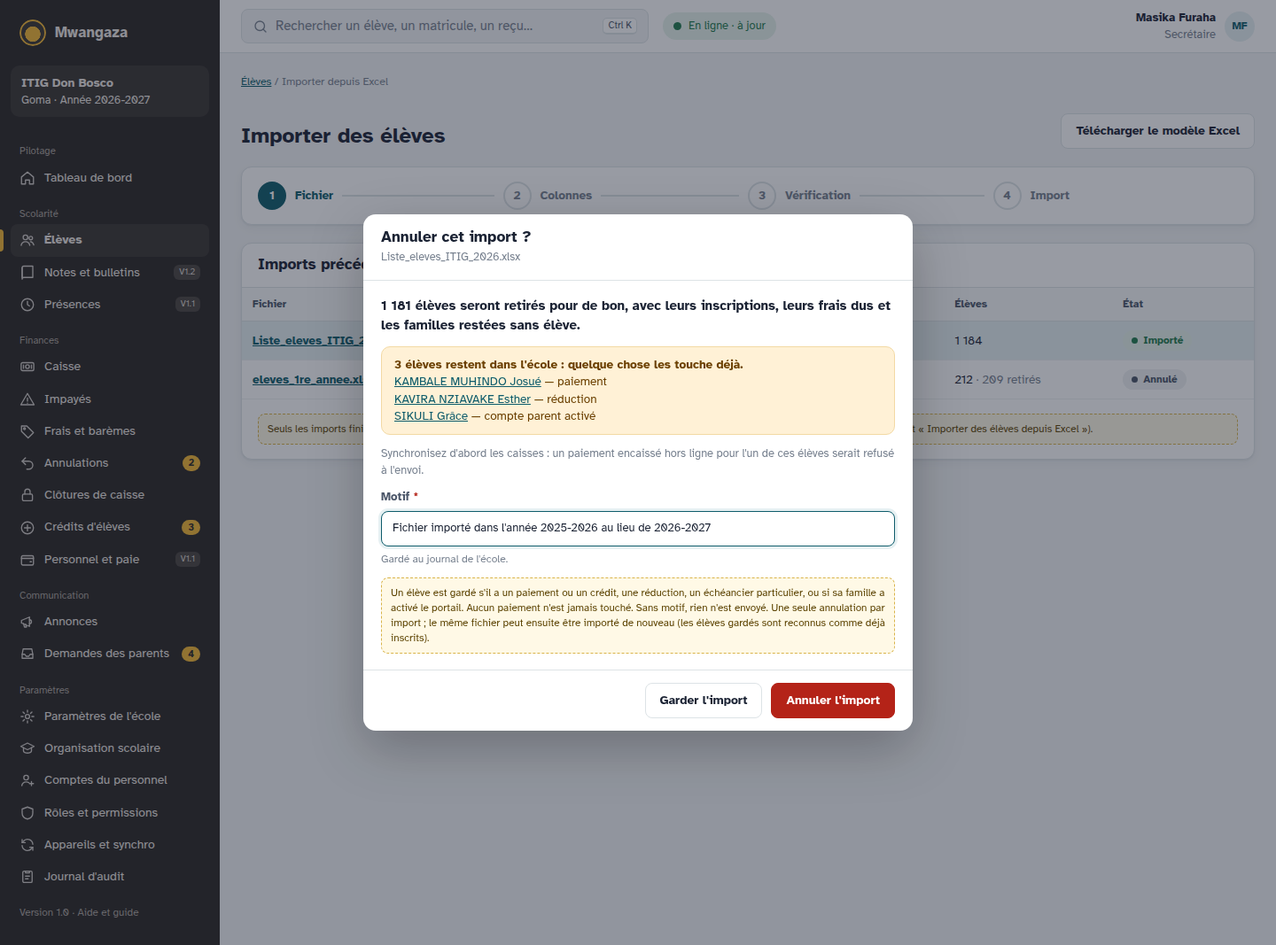
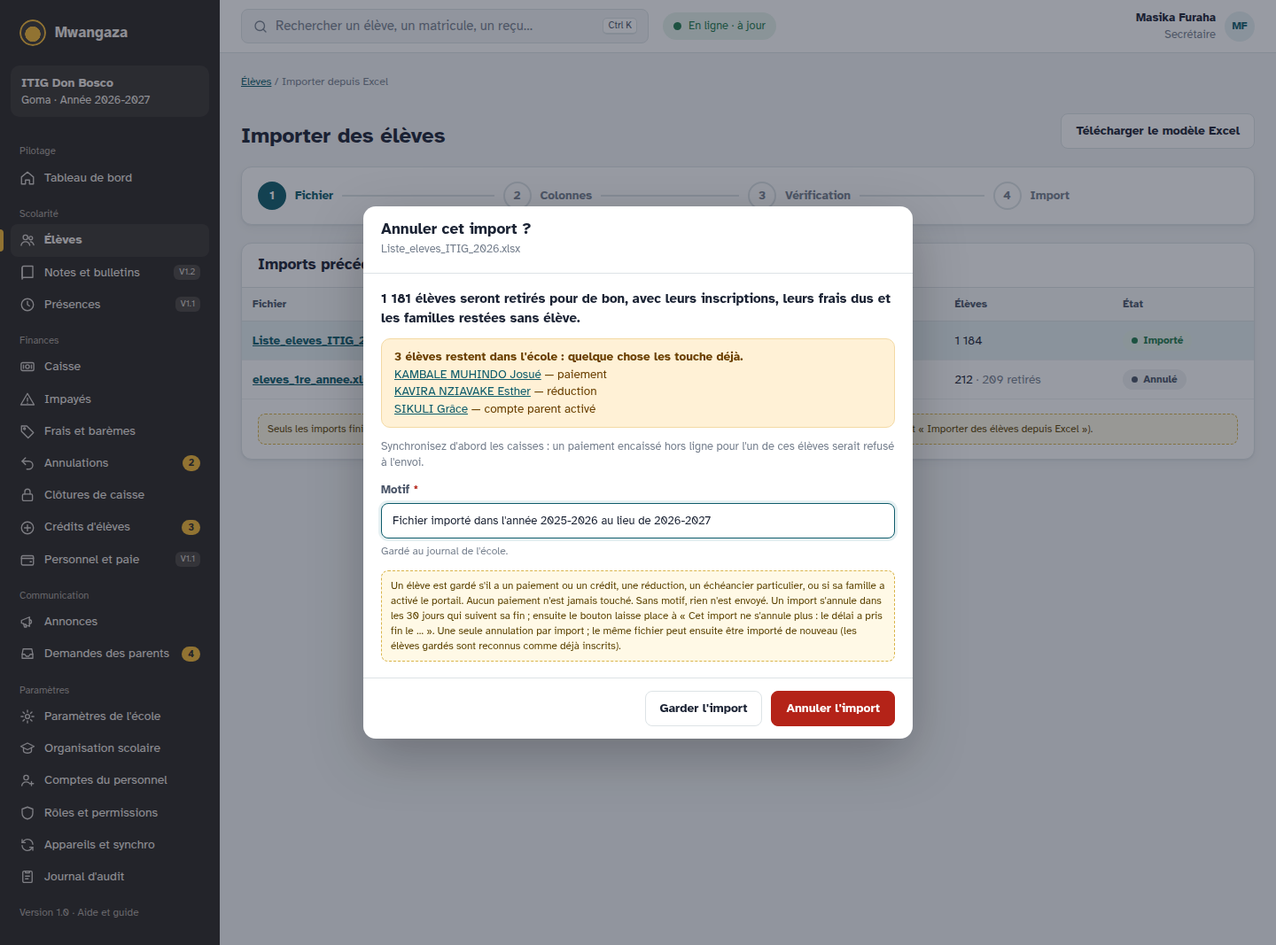
feat(eleves): un import s'annule dans les 30 jours
Passé ce délai, le serveur refuse (409 import_too_old) et l'écran donne
la date de fin du délai à la place du bouton : un import de septembre
annulé par erreur en mars effacerait tous les élèves sans paiement.

Changed region(s): [[0.2812, 0.3093, 0.7188, 0.8041], [0.2812, 0.2165, 0.7188, 0.2784]]

diff --git a/frontend/apps/gestion/src/features/students/ImportStudentsPage.tsx b/frontend/apps/gestion/src/features/students/ImportStudentsPage.tsx
@@ -3,7 +3,7 @@
 // un rechargement retrouve l'étape. Le serveur vérifie chaque ligne ; les lignes en erreur ne sont
 // pas importées, celles en avertissement le sont (à vérifier ensuite). Un import fini se retrouve
 // sous l'étape « Fichier » et s'annule (`ImportCancellation`).
-import { useTranslation } from "@mwangaza/i18n";
+import { formatDate, useTranslation } from "@mwangaza/i18n";
 import {
   Banner,
   Button,
@@ -30,6 +30,7 @@ import { Link, useNavigate, useParams } from "react-router";
 
 import { errorMessage } from "../../lib/errors";
 import { keys } from "../../lib/queries";
+import { useCurrentSchool } from "../../lib/school";
 import { useClasses, useYears } from "../organisation/data";
 import { Pagination } from "../shell/Pagination";
 import { LoadError } from "../status/StatusPages";
@@ -505,7 +506,8 @@ type IssueCode =
 
 /** Étape 4 : import en tâche de fond, suivi jusqu'au bout. */
 function ImportStep({ imp }: { imp: StudentImport }) {
-  const { t } = useTranslation();
+  const { t, i18n } = useTranslation();
+  const school = useCurrentSchool();
   const number = useNumber();
   const queryClient = useQueryClient();
   const [cancelling, setCancelling] = useState(false);
@@ -545,11 +547,20 @@ function ImportStep({ imp }: { imp: StudentImport }) {
       </CardContent>
       {imp.status !== "importing" && (
         <CardFooter className="flex-wrap justify-end gap-2.5">
-          {imp.status === "done" && imp.created_count > 0 && (
-            <Button variant="outline" className="mr-auto" onClick={() => setCancelling(true)}>
-              {t("students.import.cancel.action")}
-            </Button>
-          )}
+          {imp.status === "done" &&
+            imp.created_count > 0 &&
+            imp.cancellable_until &&
+            (new Date(imp.cancellable_until) > new Date() ? (
+              <Button variant="outline" className="mr-auto" onClick={() => setCancelling(true)}>
+                {t("students.import.cancel.action")}
+              </Button>
+            ) : (
+              <span className="mr-auto text-sm text-ink-3">
+                {t("students.import.cancel.tooLate", {
+                  date: formatDate(imp.cancellable_until, i18n.language, school.timezone),
+                })}
+              </span>
+            ))}
           {imp.status === "done" && imp.counts.error > 0 && (
             <Button asChild variant="outline">
               <a href={importReportUrl(imp.id)} download>

diff --git a/maquettes/gestion/eleves-import-annulation.html b/maquettes/gestion/eleves-import-annulation.html
@@ -31,7 +31,7 @@
    <div><a href="#">SIKULI Grâce</a> — compte parent activé</div></div></div>
   <p class="small muted">Synchronisez d'abord les caisses : un paiement encaissé hors ligne pour l'un de ces élèves serait refusé à l'envoi.</p>
   <label class="f"><span>Motif <span class="req">*</span></span><span class="inp focus">Fichier importé dans l'année 2025-2026 au lieu de 2026-2027</span><span class="help">Gardé au journal de l'école.</span></label>
-  <div class="note">Un élève est gardé s'il a un paiement ou un crédit, une réduction, un échéancier particulier, ou si sa famille a activé le portail. Aucun paiement n'est jamais touché. Sans motif, rien n'est envoyé. Une seule annulation par import ; le même fichier peut ensuite être importé de nouveau (les élèves gardés sont reconnus comme déjà inscrits).</div>
+  <div class="note">Un élève est gardé s'il a un paiement ou un crédit, une réduction, un échéancier particulier, ou si sa famille a activé le portail. Aucun paiement n'est jamais touché. Sans motif, rien n'est envoyé. Un import s'annule dans les 30 jours qui suivent sa fin ; ensuite le bouton laisse place à « Cet import ne s'annule plus : le délai a pris fin le … ». Une seule annulation par import ; le même fichier peut ensuite être importé de nouveau (les élèves gardés sont reconnus comme déjà inscrits).</div>
  </div>
  <div class="ft"><a class="btn" href="#">Garder l'import</a><a class="btn dangerf" href="#">Annuler l'import</a></div>
 </div></div>

diff --git a/frontend/apps/gestion/src/features/students/import.test.tsx b/frontend/apps/gestion/src/features/students/import.test.tsx
@@ -53,6 +53,7 @@ const analysed = {
   cancelled_at: null,
   cancelled_by_name: null,
   cancel_reason: "",
+  cancellable_until: null,
 };
 const done = {
   ...analysed,
@@ -60,6 +61,7 @@ const done = {
   counts: { rows: 4, ready: 4, warning: 0, error: 0 },
   created_count: 4,
   finished_at: "2026-09-27T08:05:00Z",
+  cancellable_until: "2099-01-01T00:00:00Z",
 };
 const values = (last: string, date: string, klass: string) => ({
   last_name: last,
@@ -166,6 +168,7 @@ describe("importer des élèves (D1)", () => {
     const cancelled = {
       ...done,
       status: "cancelled",
+      cancellable_until: null,
       cancelled_count: 3,
       cancelled_at: "2026-09-28T09:00:00Z",
       cancelled_by_name: "Masika Furaha",

diff --git a/frontend/packages/api/src/schema.d.ts b/frontend/packages/api/src/schema.d.ts
@@ -7038,6 +7038,11 @@ export interface components {
             cancelled_by_name: string | null;
             /** Cancellation reason */
             readonly cancel_reason: string;
+            /**
+             * Format: date-time
+             * @description Fin du délai d'annulation (30 jours) ; vide si l'import n'est pas fini.
+             */
+            readonly cancellable_until: string | null;
         };
         StudentImportCreateRequest: {
             /**

diff --git a/frontend/packages/i18n/src/locales/en.ts b/frontend/packages/i18n/src/locales/en.ts
@@ -1787,6 +1787,7 @@ export const en: Messages<typeof fr> = {
         done_one: "Import cancelled on {{date}} by {{name}}: 1 student removed.",
         done_other: "Import cancelled on {{date}} by {{name}}: {{number}} students removed.",
         doneReason: "Reason: {{reason}}",
+        tooLate: "This import can no longer be cancelled: the time limit ended on {{date}}.",
       },
     },
     validation: {

diff --git a/frontend/packages/i18n/src/locales/fr.ts b/frontend/packages/i18n/src/locales/fr.ts
@@ -1796,6 +1796,7 @@ export const fr = {
         done_one: "Import annulé le {{date}} par {{name}} : 1 élève retiré.",
         done_other: "Import annulé le {{date}} par {{name}} : {{number}} élèves retirés.",
         doneReason: "Motif : {{reason}}",
+        tooLate: "Cet import ne s'annule plus : le délai a pris fin le {{date}}.",
       },
     },
     validation: {

diff --git a/backend/apps/students/import_cancellation.py b/backend/apps/students/import_cancellation.py
@@ -6,6 +6,8 @@ leurs frais dus et les familles restées sans élève. Un élève que quelque ch
 reste, avec sa famille et son lien : paiement ou crédit, réduction, échéancier particulier,
 compte parent activé. Aucun paiement n'est touché ; les frais dus effacés ici n'ont jamais rien
 reçu (seule exception à « rien n'est effacé dans les finances », décision du 2026-10-11).
+Un import ne s'annule que dans les 30 jours qui suivent sa fin : passé ce délai, un geste de trop
+effacerait une année d'élèves qui n'ont pas encore payé.
 
 Tout nouveau modèle lié à un élève ou à une inscription s'ajoute ici : aux raisons de garder
 l'élève (`_touches`) ou à ce qui part avec lui (`cancel`). Sinon la base refuse l'annulation.
@@ -13,6 +15,7 @@ l'élève (`_touches`) ou à ce qui part avec lui (`cancel`). Sinon la base refu
 
 import logging
 from dataclasses import dataclass
+from datetime import datetime, timedelta
 from functools import partial, reduce
 from operator import or_
 
@@ -37,9 +40,15 @@ PAYMENT, DISCOUNT, SCHEDULE, PORTAL = "payment", "discount", "schedule", "portal
 REASONS = (PAYMENT, DISCOUNT, SCHEDULE, PORTAL)
 # Élèves gardés nommés à l'écran ; au-delà, leur nombre seulement.
 KEPT_SHOWN = 50
+CANCEL_WITHIN = timedelta(days=30)
 
 NOT_CANCELLABLE = ApiError(
     "import_not_cancellable", _("Only a finished import can be cancelled."), 409
+)
+TOO_OLD = ApiError(
+    "import_too_old",
+    _("This import can no longer be cancelled: the time limit has passed."),
+    409,
 )
 NOTHING_TO_CANCEL = ApiError(
     "nothing_to_cancel", _("No student of this import can be removed."), 409
@@ -55,6 +64,13 @@ class Cancellation:
     kept_count: int
     # Les premiers élèves gardés, chacun avec ses `reasons`.
     kept: list[Student]
+
+
+def cancellable_until(imp: StudentImport) -> datetime | None:
+    """Fin du délai d'annulation d'un import fini ; rien pour un autre état."""
+    if imp.status != StudentImport.Status.DONE or imp.finished_at is None:
+        return None
+    return imp.finished_at + CANCEL_WITHIN
 
 
 def _touches() -> dict[str, tuple[str, Exists]]:
@@ -125,6 +141,8 @@ def _cancel(imp: StudentImport, *, actor: User, reason: str) -> StudentImport:
     imp = StudentImport.objects.select_for_update().defer("rows").get(pk=imp.pk)
     if imp.status != StudentImport.Status.DONE:
         raise BusinessError(NOT_CANCELLABLE)
+    if timezone.now() > cancellable_until(imp):
+        raise BusinessError(TOO_OLD)
     # Année verrouillée, comme à l'import et à l'inscription : le numéro de matricule ne
     # bouge pas pendant qu'il est repris.
     year = AcademicYear.objects.select_for_update().get(pk=imp.academic_year_id)

diff --git a/backend/apps/students/tests/test_imports.py b/backend/apps/students/tests/test_imports.py
@@ -5,7 +5,7 @@ compte parent), paiements intacts, journal, appareils prévenus."""
 
 import io
 import uuid
-from datetime import date, datetime
+from datetime import date, datetime, timedelta
 from decimal import Decimal
 
 import openpyxl
@@ -361,6 +361,17 @@ def test_cancelling_an_import_removes_untouched_students_and_never_touches_money
     assert response.status_code == 400 and "reason" in response.json()["fields"]
     with use_school(school):
         assert Student.objects.count() == 7
+
+    # Passé 30 jours, plus d'annulation.
+    with use_school(school):
+        late = timezone.now() - timedelta(days=31)
+        StudentImport.objects.filter(pk=imp.pk).update(finished_at=late)
+    assert client.get(path).json()["cancellable_until"] < timezone.now().isoformat()
+    response = client.post(f"{path}cancel/", {"reason": "Trop tard"})
+    assert response.status_code == 409 and response.json()["code"] == "import_too_old"
+    with use_school(school):
+        assert Student.objects.count() == 7
+        StudentImport.objects.filter(pk=imp.pk).update(finished_at=timezone.now())
 
     response = client.post(f"{path}cancel/", {"reason": "Fichier importé dans la mauvaise classe"})
     assert response.status_code == 200, response.json()

diff --git a/backend/apps/students/serializers.py b/backend/apps/students/serializers.py
@@ -407,6 +407,9 @@ class StudentImportSerializer(serializers.ModelSerializer):
     cancelled_by_name = serializers.CharField(
         source="cancelled_by.__str__", default=None, allow_null=True
     )
+    cancellable_until = serializers.SerializerMethodField(
+        help_text="Fin du délai d'annulation (30 jours) ; vide si l'import n'est pas fini."
+    )
 
     class Meta:
         model = StudentImport
@@ -430,12 +433,17 @@ class StudentImportSerializer(serializers.ModelSerializer):
             "cancelled_at",
             "cancelled_by_name",
             "cancel_reason",
+            "cancellable_until",
         ]
         read_only_fields = fields
 
     @extend_schema_field(serializers.IntegerField())
     def get_importable_count(self, imp: StudentImport) -> int:
         return imports.importable_count(imp)
+
+    @extend_schema_field(serializers.DateTimeField(allow_null=True))
+    def get_cancellable_until(self, imp: StudentImport):
+        return import_cancellation.cancellable_until(imp)
 
 
 class StudentImportListSerializer(serializers.ModelSerializer):

diff --git a/docs/claude/reference.md b/docs/claude/reference.md
@@ -24,7 +24,7 @@ Sorti de `CLAUDE.md` le 2026-10-04 : `CLAUDE.md` est lu à chaque conversation, 
 - **Gestion** `http://itig.localhost:5173/app/` (le sous-domaine = code de l'école ; `…/api/school/` renvoie l'école ; écrans : `/app/login` et ses étapes `…/code`, `…/new-password`, `…/two-factor`, `/app/account`, `/app/schools`, `/app/support`, `/app/students/invitations` (invitations au portail), `/app/platform-news` (annonces de la plateforme ; bandeau de la dernière non lue en haut de chaque écran, lien en bas du menu), `/app/notifications` (centre de notifications, ouvert par la cloche de la barre du haut ; activer les notifications sur l'écran de cet appareil, essai, sortes à recevoir ; réception seulement avec le service worker, donc après `make build` et `pnpm preview`), une adresse par entrée du menu, guide du caissier et du comptable par-dessus les écrans (« Aide et guide » en bas du menu) ; service worker seulement après `make build`, essai avec `cd frontend/apps/gestion && pnpm preview` sur le port 4173)
 - **Portail** `http://localhost:5174/` (écrans `/login`, `/activate` (code famille prérempli depuis `#<code>`, QR de la lettre d'invitation), `/forgot-password`, `/` (mes enfants), `/children/<id>` (paiements), `/announcements`, `/profile`, `/add-school`, `/install`, `/guide` (guide du parent, après l'activation) ; service worker seulement après `make build` ; API sans école `/api/portal/auth/login/` · `activate/` · `reset/`, `/api/portal/me/`, `/api/portal/profile/`, `/api/portal/families/` · `families/link/`, `/api/portal/children/<id>/` · `…/photo/`, `/api/portal/payments/<id>/receipt/`, `/api/portal/announcements/` · `read/`, refusée à l'adresse d'une école ; session : 90 jours après la dernière visite avec « Rester connecté » (prolongée par `/api/portal/me/`, une écriture par jour au plus), sinon 12 heures ; `localStorage` `mwangaza.portal.lastSession` : trace d'une session ouverte, pour remplir le numéro et ramener à la page demandée après une session finie, effacée à la déconnexion)
 - **Console de la plateforme** `http://admin.localhost:5175/` (super-admin seulement : à cette adresse, `/api/auth/login/` refuse tout autre compte et demande toujours le code ; écrans `/login`, `/login/code`, `/login/finish` (première connexion terminée dans l'administration, même session), `/` tableau de bord, `/identity` identité de la plateforme, `/schools` écoles · `/schools/new` · `/schools/<id>`, `/accounts` comptes · `/accounts/<id>`, `/announcements` annonces aux écoles, `/devices` appareils, `/journal` journal de la plateforme · `/journal/support` sessions support ; API `/api/console/dashboard/`, `/api/console/platform/` · `logo/` · `icon/` (identité modifiable, chaque changement au journal de la plateforme), `/api/console/schools/` · `<id>/` · `<id>/suspend/` · `<id>/reactivate/` (liste, création avec le directeur, noms, adresse et abonnement ; au journal de la plateforme), `/api/console/accounts/` · `<id>/` · `<id>/new-password/` · `<id>/reset-totp/` (comptes de toutes les écoles : recherche, noms, téléphone, accès ; au journal de la plateforme et des écoles), `/api/console/announcements/` · `<id>/archive/` (annonces aux écoles : liste avec « lue par N », publication, archivage ; au journal de la plateforme), `/api/console/devices/` · `<id>/revoke/` (appareils de toutes les écoles ; déconnexion au journal de l'école et de la plateforme), `/api/console/support-sessions/` (sessions support reconstituées depuis le journal des écoles), `/api/console/audit/` (journal de la plateforme, filtres), introuvables ailleurs)
-- **API de l'école** `/api/…` via le proxy Vite (`/api/platform/` · `logo/` · `icon/` · `manifest/gestion/` · `manifest/portail/` : identité de la plateforme, publique à toute adresse, `/api/me/`, `/api/roles/`, `/api/staff/`, `/api/audit/`, `/api/school/settings/`, `/api/support/`, `/api/academic-years/`, `/api/levels/`, `/api/tracks/`, `/api/class-groups/`, `/api/matricule-format/`, `/api/students/`, `/api/families/` · `families/activation/` · `families/letters/` · `families/<id>/letter/` · `families/<id>/invitation-message/`, `/api/enrollments/`, `/api/student-imports/` (liste : imports finis ou annulés ; `<id>/cancellation/` : élèves à retirer et élèves gardés ; `<id>/cancel/` : annuler avec un motif, droit `students.import`), `/api/contact-changes/`, `/api/fee-types/`, `/api/fee-rules/`, `/api/exchange-rates/`, `/api/discounts/`, `/api/student-charges/`, `/api/cash-registers/`, `/api/cash-sessions/`, `/api/cash-closings/`, `/api/payments/`, `/api/cancellations/`, `/api/student-credits/`, `/api/unpaid/`, `/api/dashboard/`, `/api/announcements/`, `/api/platform-announcements/` · `read/` (annonces de la plateforme pour le personnel, `?unread=true`), `/api/notifications/` · `read/` · `test/` · `preferences/` · `subscribe/` · `unsubscribe/` (notifications du compte dans l'école, `?unread=true` ; préférences avec la clé publique Web Push ; abonnement de ce navigateur), `/api/devices/` · `/api/me/devices/`, `/api/sync/snapshot/` · `pull/` · `push/` depuis un appareil enregistré)
+- **API de l'école** `/api/…` via le proxy Vite (`/api/platform/` · `logo/` · `icon/` · `manifest/gestion/` · `manifest/portail/` : identité de la plateforme, publique à toute adresse, `/api/me/`, `/api/roles/`, `/api/staff/`, `/api/audit/`, `/api/school/settings/`, `/api/support/`, `/api/academic-years/`, `/api/levels/`, `/api/tracks/`, `/api/class-groups/`, `/api/matricule-format/`, `/api/students/`, `/api/families/` · `families/activation/` · `families/letters/` · `families/<id>/letter/` · `families/<id>/invitation-message/`, `/api/enrollments/`, `/api/student-imports/` (liste : imports finis ou annulés ; `<id>/cancellation/` : élèves à retirer et élèves gardés ; `<id>/cancel/` : annuler avec un motif, dans les 30 jours, droit `students.import`), `/api/contact-changes/`, `/api/fee-types/`, `/api/fee-rules/`, `/api/exchange-rates/`, `/api/discounts/`, `/api/student-charges/`, `/api/cash-registers/`, `/api/cash-sessions/`, `/api/cash-closings/`, `/api/payments/`, `/api/cancellations/`, `/api/student-credits/`, `/api/unpaid/`, `/api/dashboard/`, `/api/announcements/`, `/api/platform-announcements/` · `read/` (annonces de la plateforme pour le personnel, `?unread=true`), `/api/notifications/` · `read/` · `test/` · `preferences/` · `subscribe/` · `unsubscribe/` (notifications du compte dans l'école, `?unread=true` ; préférences avec la clé publique Web Push ; abonnement de ce navigateur), `/api/devices/` · `/api/me/devices/`, `/api/sync/snapshot/` · `pull/` · `push/` depuis un appareil enregistré)
 - **Vérification publique** d'un reçu `/v/<id>` et d'une situation financière `/v/s/<jeton>`
 - **Doc de l'API** `/api/docs/` (seulement en `DEBUG`)
 - **Administration Django** `http://localhost:8000/admin/`, aussi `http://admin.localhost:5175/admin/` (dépannage ; super-admin : mot de passe puis code de `make totp` ; écoles en lecture seule : `/admin/schools/school/` (lien « Ouvrir en tant qu'école ») ; identité de la plateforme en lecture seule : `/admin/core/platformsettings/`, journal de la plateforme : `/admin/audit/platformauditlog/`)

diff --git a/docs/03-architecture-technique.md b/docs/03-architecture-technique.md
@@ -350,4 +350,4 @@ Consultation des élèves et de leur situation financière, encaissement, impres
 | 2026-10-10 | Bloc « Lancement » revu en développeur senior : 13 → 11 tâches (4.12 à 4.21, 4.7.1) ; retirés : état « en préparation », essai gratuit sorti des états, « Vider », suspension automatique d'un essai, matricule à trois modes, compléments d'import, export d'un espace ; session du Portail prolongée par une écriture par jour au plus ; purge des sessions avec la tâche planifiée des sauvegardes, sans planificateur Celery | Chaque fonction doit être utile et ne rien coûter au serveur (2 cœurs partagés) : pas d'écriture par requête, pas de nouveau processus, moins de code destructeur à maintenir |
 | 2026-10-10 | Session du Portail (4.12) : « Rester connecté » = 90 jours après la dernière visite, prolongés par `GET /api/portal/me/` seulement (jour gardé dans la session : une écriture par jour et par appareil au plus) ; décoché = 12 heures fixes, cookie daté ; sur le téléphone, trace d'une session ouverte dans `localStorage` (numéro seulement avec « Rester connecté », effacée à la déconnexion) ; fin de session = données de la famille effacées (mémoire et cache hors ligne) ; pas de scénario Playwright pour le Portail ; limite de tentatives par adresse IP et délai de 10 s du service worker inchangés ; `make demo` garde le mot de passe déjà en place | Un cookie sans durée est perdu en quittant l'application installée ; prolonger à chaque requête aurait écrit en base à chaque appel, et `/me/` est lu à chaque ouverture et retour au premier plan ; un troisième serveur Vite dans la CI ne prouverait rien de plus que les tests du serveur et Vitest ; aucun blocage par adresse IP reproduit ; un nouveau hachage du mot de passe fermait toutes les sessions à chaque `make demo` |
 | 2026-10-10 | Matricule au choix de l'école (4.13, C5) : un seul booléen `School.auto_matricule` (oui par défaut), lu et écrit par `/api/matricule-format/` (`classes.manage`, même action de journal que le format) et lu par `/api/school/` ; sur non, `enroll` et l'import ne créent rien et la séquence n'avance pas. Import : « - », « 0 », « néant »… dans la colonne = pas de matricule (cause du blocage Q14). Écarté : saisie du matricule à l'inscription (il vient de la colonne de l'import ou de « Modifier » sur la fiche) ; nouvelle action de journal. |
-| 2026-10-11 | Annulation d'un import (4.14, D6) : **par élève**, pas tout ou rien (l'élève qu'un paiement, une réduction, un échéancier particulier ou un compte parent touche reste, les autres partent) ; **effacement réel** des élèves, inscriptions, frais dus jamais payés et familles vides, sans état « annulé » sur l'élève ; droit `students.import`, pas de nouveau droit ; faite dans la requête avec des suppressions en masse (`_raw_delete`, `ChangeLog` noté une fois) ; numéro de matricule repris à sa valeur d'avant l'import | Un seul paiement ne doit pas bloquer l'annulation de 800 élèves ; un état « annulé » obligerait chaque liste, total et recherche de doublon à l'exclure ; les frais dus effacés n'ont jamais rien reçu (seule exception à « rien n'est effacé dans les finances ») ; un droit de plus irait aux mêmes rôles ; une dizaine de requêtes pour 800 élèves au lieu d'un signal par ligne ; sans la reprise, un fichier ré-importé commencerait au matricule 801 |
+| 2026-10-11 | Annulation d'un import (4.14, D6) : **par élève**, pas tout ou rien (l'élève qu'un paiement, une réduction, un échéancier particulier ou un compte parent touche reste, les autres partent) ; **effacement réel** des élèves, inscriptions, frais dus jamais payés et familles vides, sans état « annulé » sur l'élève ; droit `students.import`, pas de nouveau droit ; faite dans la requête avec des suppressions en masse (`_raw_delete`, `ChangeLog` noté une fois) ; numéro de matricule repris à sa valeur d'avant l'import ; **délai de 30 jours** après la fin de l'import (accord de l'utilisateur) | Un seul paiement ne doit pas bloquer l'annulation de 800 élèves ; un état « annulé » obligerait chaque liste, total et recherche de doublon à l'exclure ; les frais dus effacés n'ont jamais rien reçu (seule exception à « rien n'est effacé dans les finances ») ; un droit de plus irait aux mêmes rôles ; une dizaine de requêtes pour 800 élèves au lieu d'un signal par ligne ; sans la reprise, un fichier ré-importé commencerait au matricule 801 ; sans délai, un import de septembre annulé par erreur en mars effacerait tous les élèves qui n'ont pas encore payé |

diff --git a/docs/04-modele-de-donnees.md b/docs/04-modele-de-donnees.md
@@ -68,7 +68,7 @@ Champs V1.3 (7.6) : `blood_group`, `allergies`, `special_needs`, `religion`, `of
 
 Règles :
 - Import (D1) : chaque ligne est prête, en avertissement (importée, à vérifier : doublon dans le fichier, date de naissance manquante, téléphone illisible) ou en erreur (pas importée : nom, sexe ou classe manquants ou inconnus, date impossible, matricule déjà pris ou répété, **élève déjà dans l'école** — un fichier importé deux fois ne crée aucun doublon). Les lignes au même tuteur (même nom et même téléphone) forment une famille ; jamais de rattachement automatique à une famille déjà dans l'école. Matricule du fichier gardé, sinon donné par la séquence de l'année si l'école en attribue (`auto_matricule`). La colonne est facultative ; « - », « 0 », « néant », « N/A »… y veulent dire « pas de matricule » (4.13 : sinon chaque ligne suivante était refusée, « répété »). Journal : une entrée `students.student_imported` par élève.
-- Annulation d'un import (D6, `students/import_cancellation.py`) : seulement un import fini (`done`), une seule fois, avec un motif, par qui a le droit `students.import`. Les élèves de l'import que rien ne touche sont **effacés** avec leurs inscriptions, leurs frais dus (`StudentCharge`, jamais payés : seule exception à « rien n'est effacé dans les finances ») et les familles restées sans élève ; les appareils les retirent à la synchronisation (`ChangeLog` `delete`). Un élève **reste**, avec sa famille et son lien, s'il a un paiement ou un crédit, une réduction, un échéancier particulier, ou si sa famille a activé le portail. Aucun paiement n'est touché. Le numéro de matricule de l'année revient à `matricule_start`. Journal : `students.student_removed` par élève, `students.import_cancelled` pour l'import. **Tout nouveau modèle lié à un élève ou à une inscription s'ajoute à ce module** (raison de garder l'élève, ou ligne effacée avec lui).
+- Annulation d'un import (D6, `students/import_cancellation.py`) : seulement un import fini (`done`), **dans les 30 jours** qui suivent sa fin (`cancellable_until` dans l'API ; ensuite 409 `import_too_old`), une seule fois, avec un motif, par qui a le droit `students.import`. Les élèves de l'import que rien ne touche sont **effacés** avec leurs inscriptions, leurs frais dus (`StudentCharge`, jamais payés : seule exception à « rien n'est effacé dans les finances ») et les familles restées sans élève ; les appareils les retirent à la synchronisation (`ChangeLog` `delete`). Un élève **reste**, avec sa famille et son lien, s'il a un paiement ou un crédit, une réduction, un échéancier particulier, ou si sa famille a activé le portail. Aucun paiement n'est touché. Le numéro de matricule de l'année revient à `matricule_start`. Journal : `students.student_removed` par élève, `students.import_cancelled` pour l'import. **Tout nouveau modèle lié à un élève ou à une inscription s'ajoute à ce module** (raison de garder l'élève, ou ligne effacée avec lui).
 - Doublon potentiel (dans l'école) : même `last_name` + `first_name` + `birth_date` (sans tenir compte des majuscules) → avertissement, pas de blocage : 409 `possible_duplicate`, puis nouvel envoi avec `allow_duplicate` après confirmation.
 - Le matricule est généré à la **première** `Enrollment` de l'élève, si l'école en attribue (`School.auto_matricule`), selon `School.matricule_format` : `{AAAA}` / `{AA}` = année de début de l'année scolaire, `{OPT}` = code de l'option de la classe, numéro = séquence par école et par année ; un numéro déjà pris (saisi à la main ou importé) est sauté. Réinscription : l'élève garde son matricule.
 - Élève et inscription acceptent un `id` donné par l'appareil (UUID v7) : le même envoi rejoué renvoie ce qui existe (200) ; un `id` qui sert déjà ailleurs : 409 `id_taken`.
